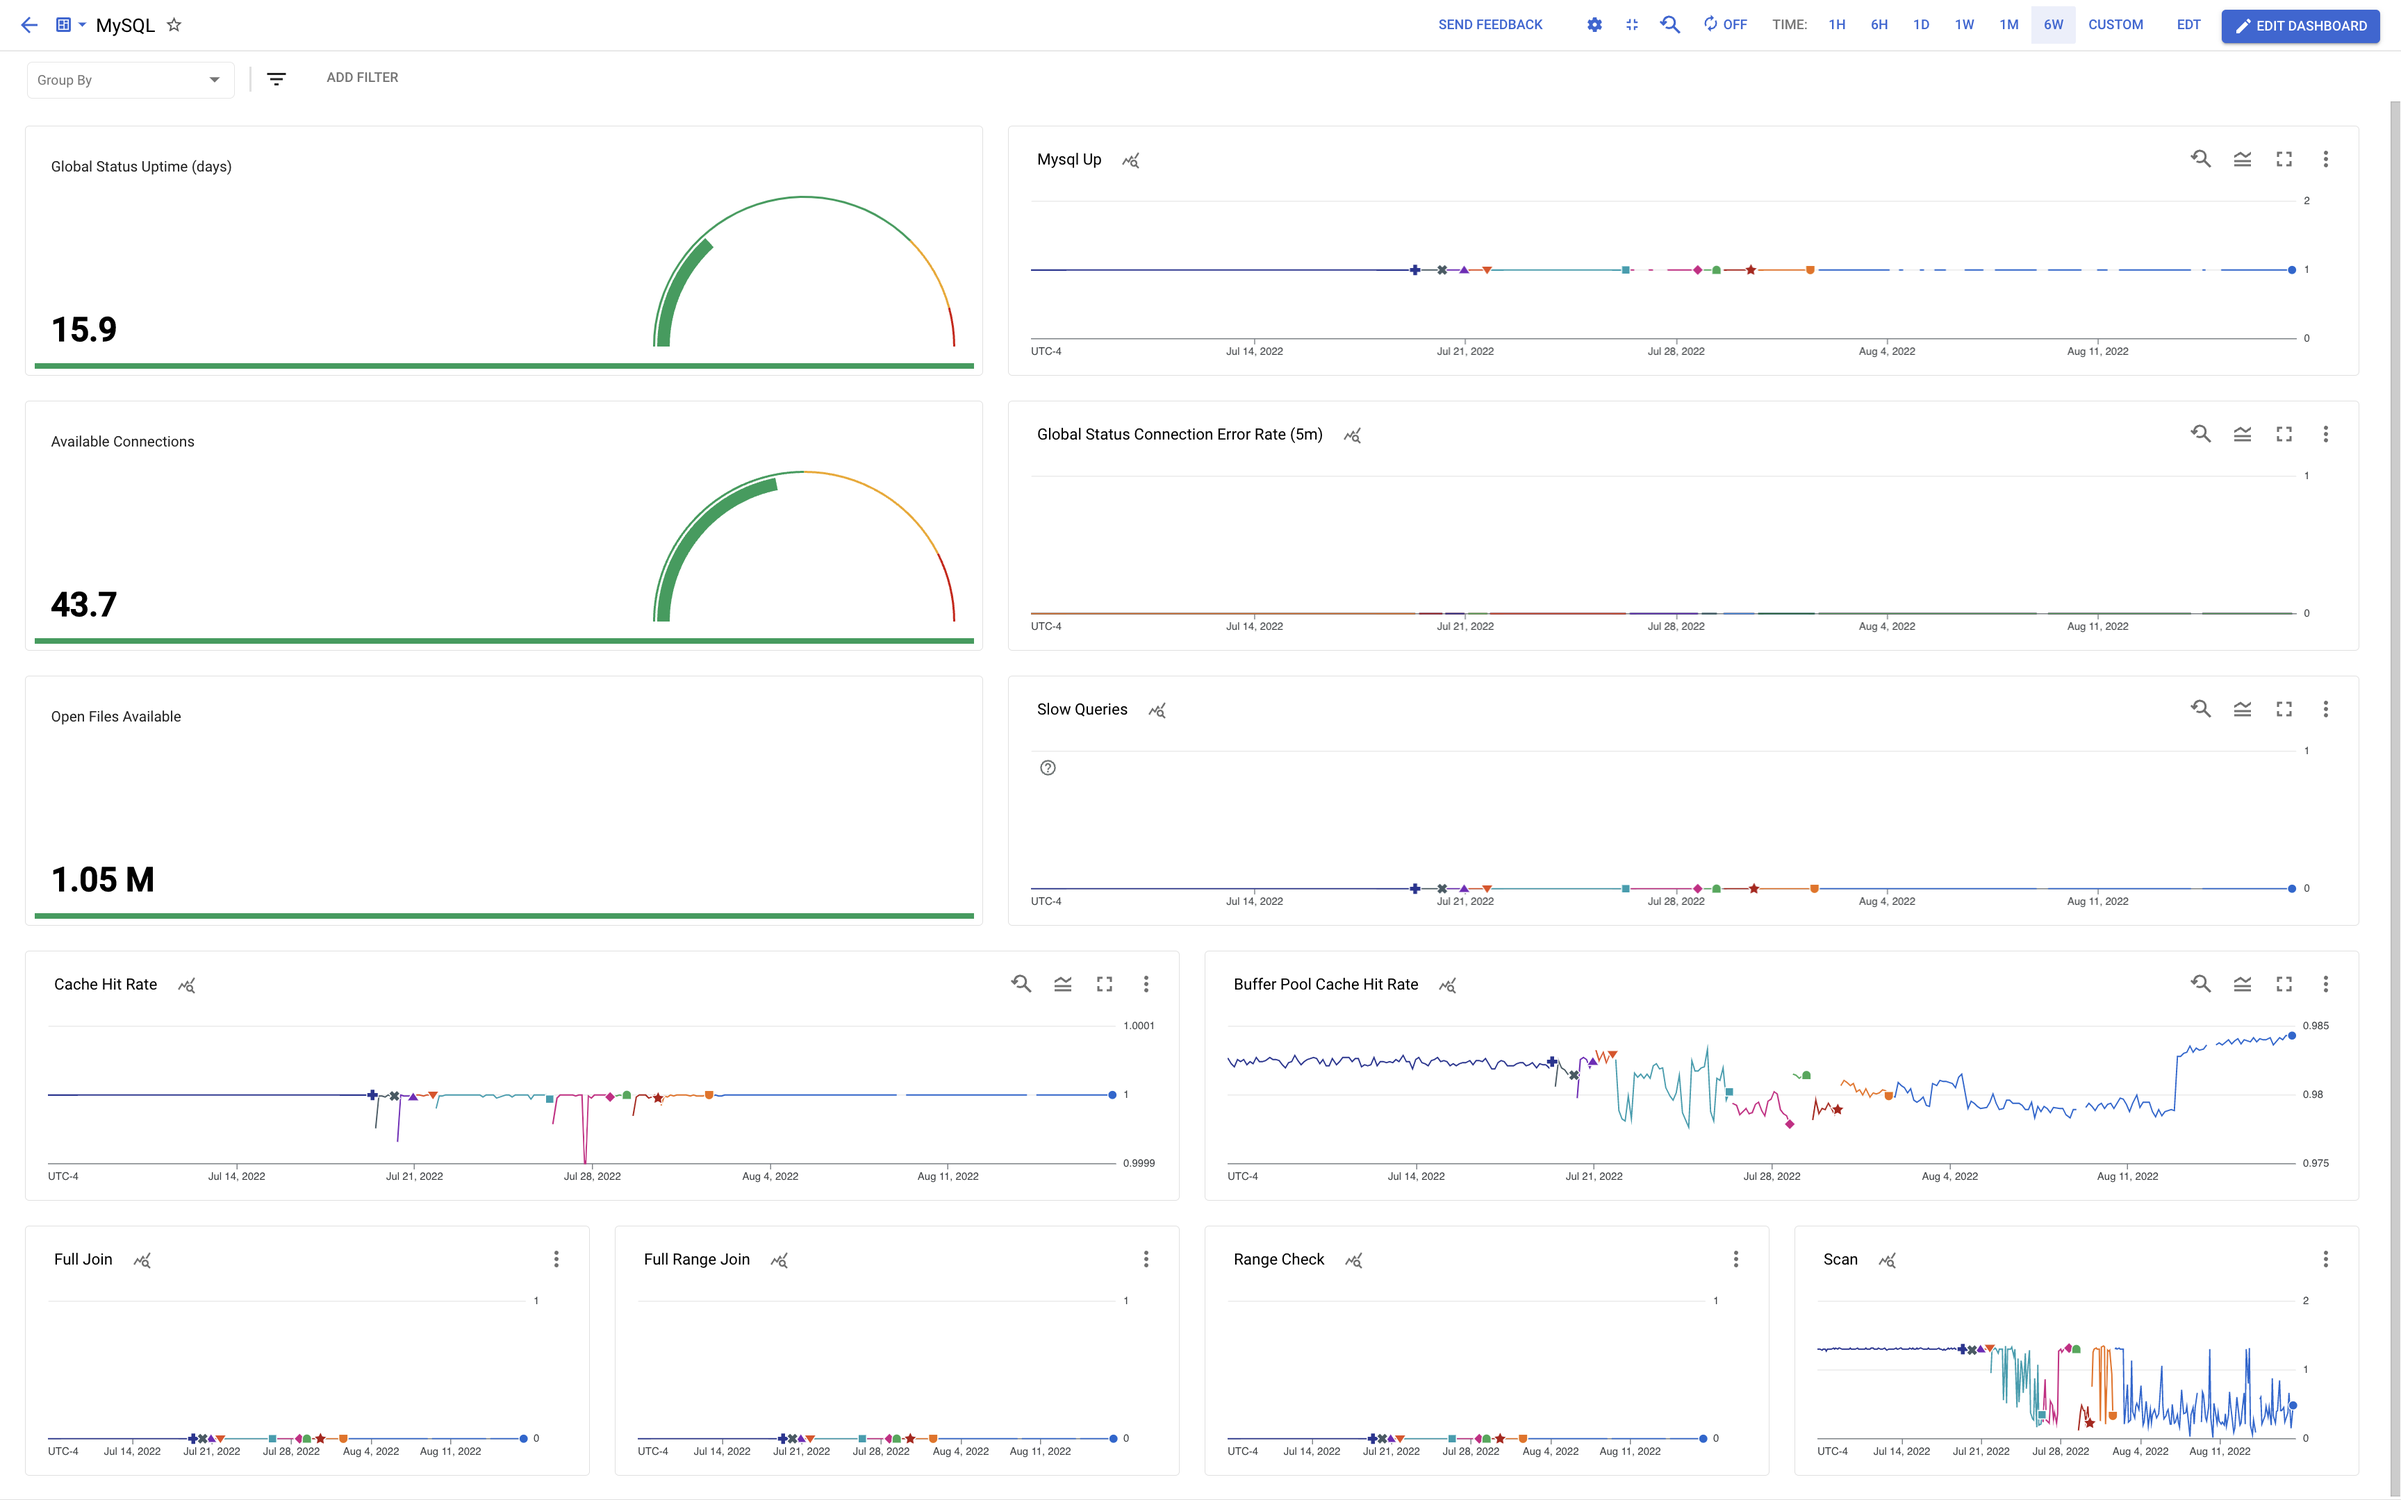
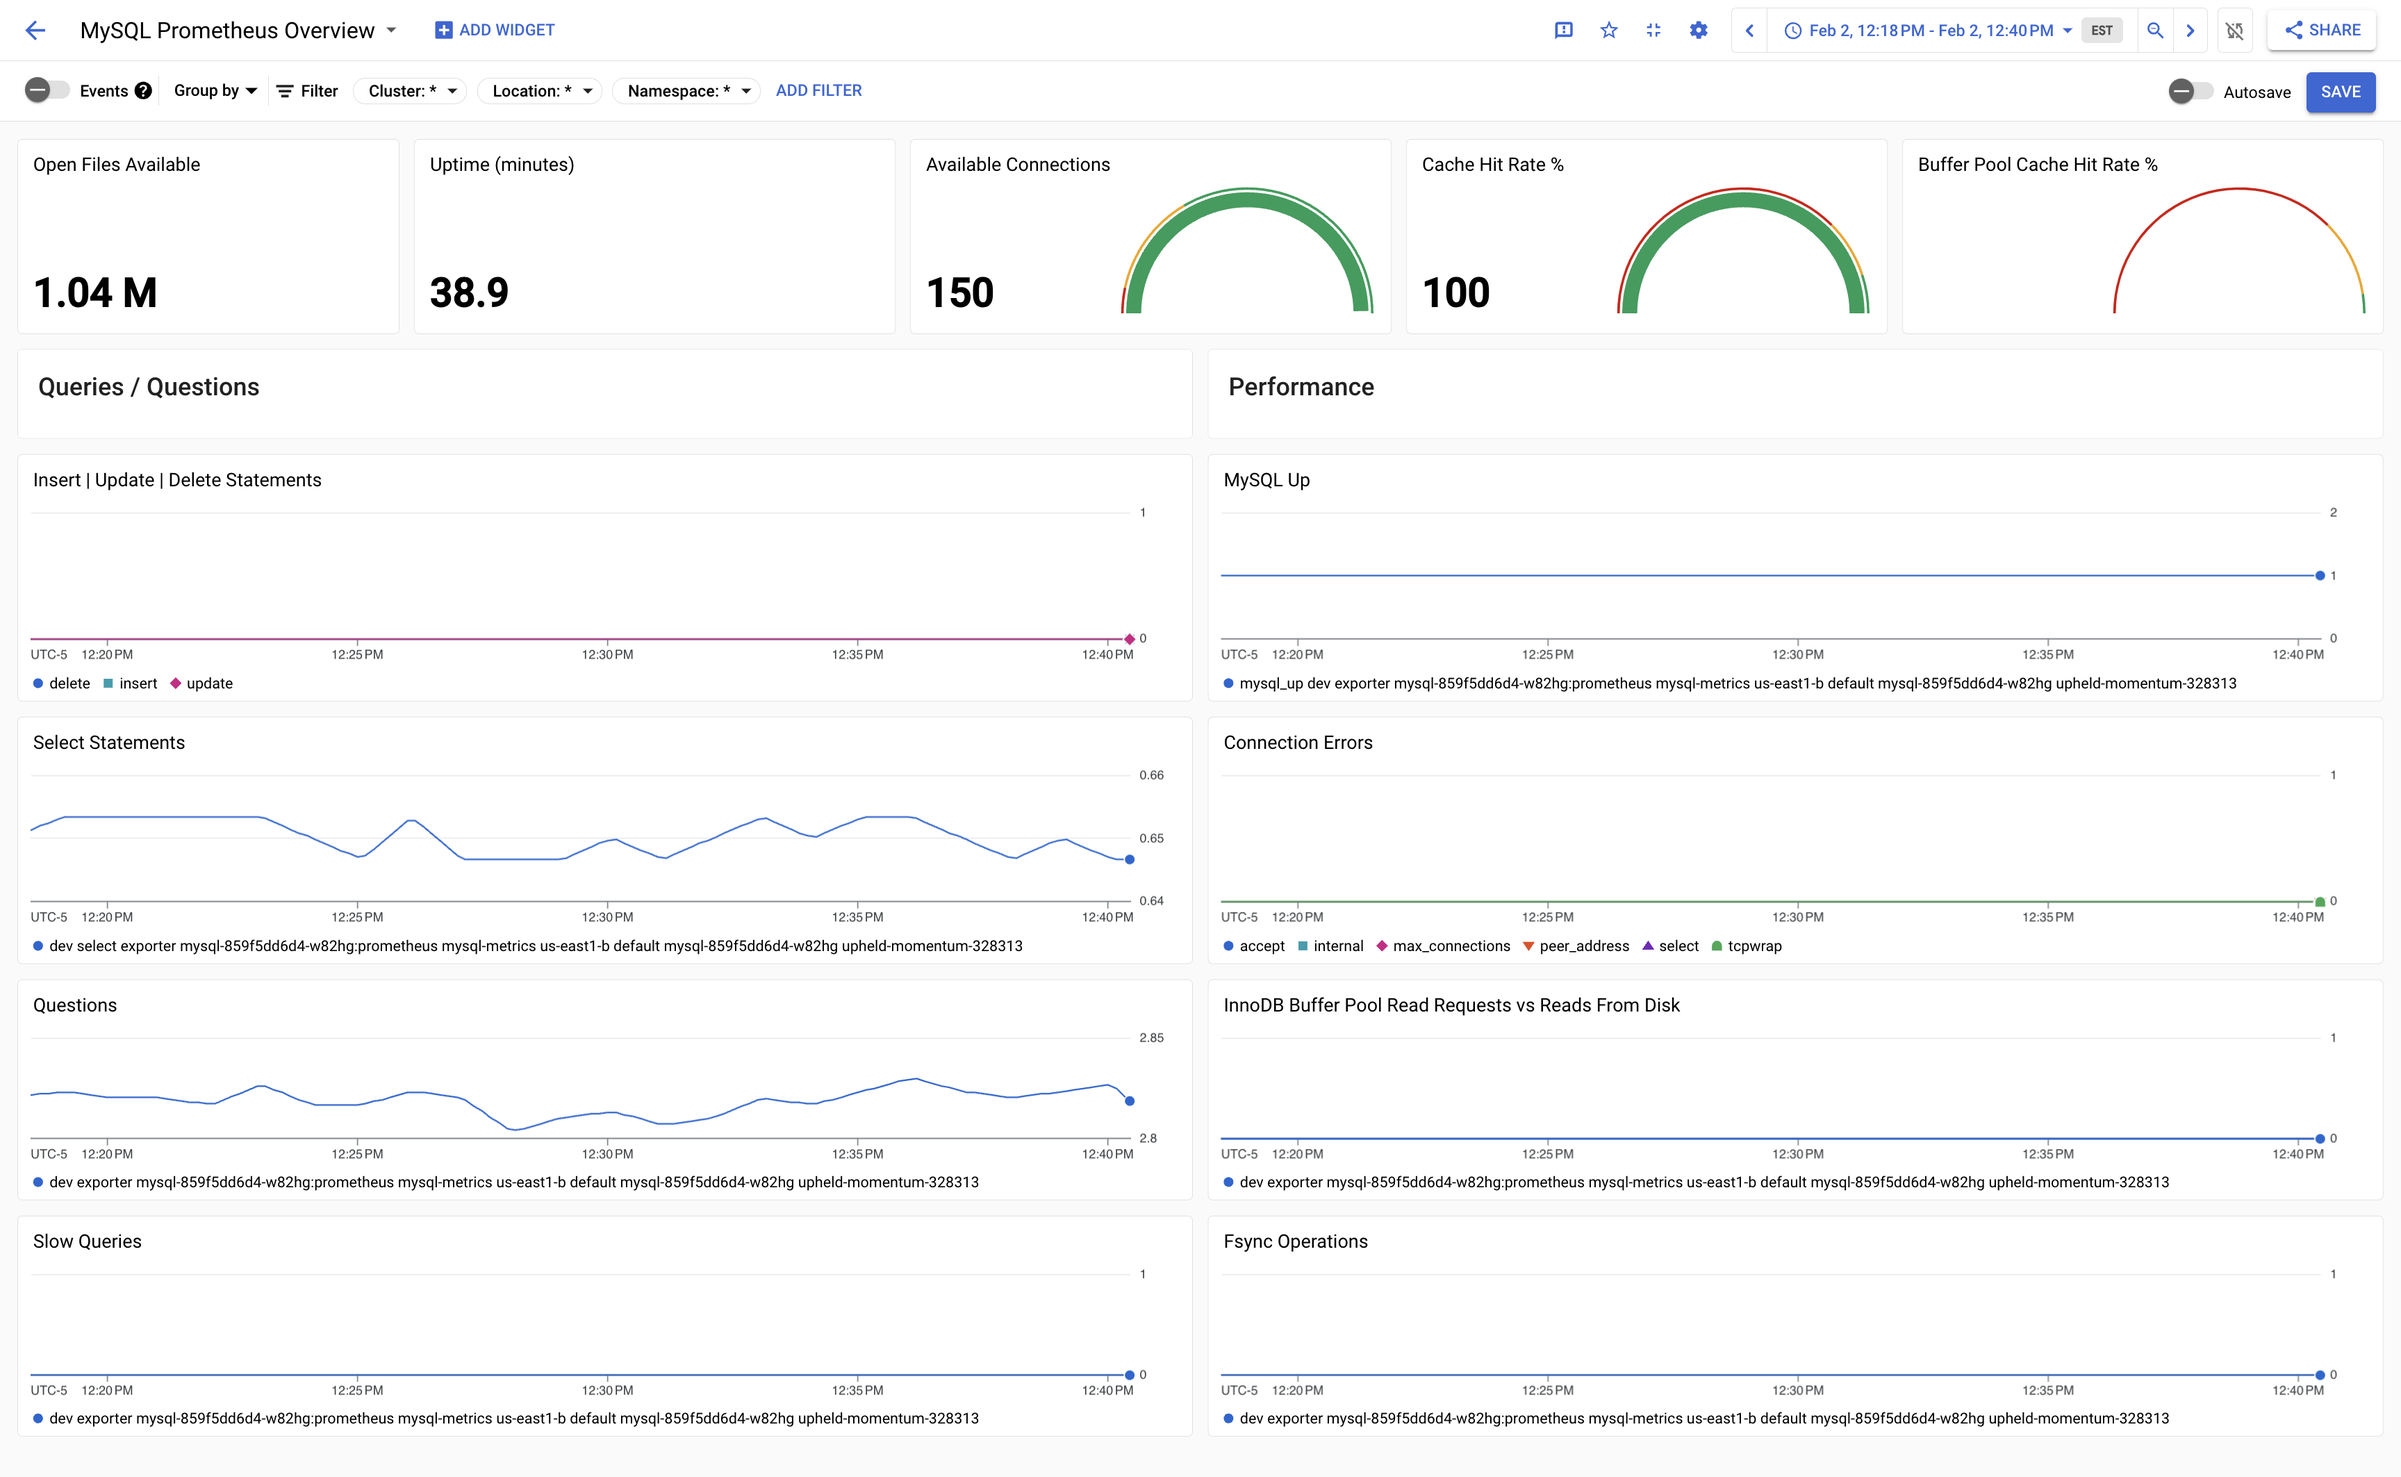
MySQL Prometheus dashboard KPI and layout updates (#669)
* updated the layout and kpis for the mysql prometheus dashboard

* updated the mysql prometheus dashboard screenshot

* updated the readme to reflect new metrics and chart titles

* updated the description for mysql prometheus dashboard in metadata

* updated layout and kpis for mysql prometheus dashboard

* fixed title in dashboard screenshot for mysql prometheus

* updated the default metrics listed in metadata for mysql prometheus

* fixed typos in metadata description

* updated mysql metadata to reflect that uptime is measured in minutes

* removed duplicate metric

* included filters missing for several metrics, updated cache hit charts to clearly represent a percentage

* updated screenshot to reflect changes to cache hit percentage scorecards

diff --git a/dashboards/mysql/README.md b/dashboards/mysql/README.md
@@ -13,4 +13,4 @@
 |MySQL Prometheus|
 |:------------------|
 |Filename: [mysql-prometheus.json](mysql-prometheus.json)|
-|This dashboard is based on prometheus metrics being exposed by an [exporter](https://github.com/prometheus/mysqld_exporter). This dashboard has charts displaying: `Global Status Uptime (days)`, `Available Connections`, `Open Files Available`, `Cache Hit Rate`, `MySQL Up`, `Global Status Connection Error Rate (5m)`, `Slow Queries`, `Buffer Pool Cache Hit Ratio`, `Full Join`, `Full Range Join`, `Range Check`, and `Scan`|
+|This dashboard is based on prometheus metrics being exposed by an [exporter](https://github.com/prometheus/mysqld_exporter). This dashboard has charts displaying: `Uptime (minutes)`, `Available Connections`, `Open Files Available`, `Cache Hit Rate`, `MySQL Up`, `Connection Errors`, `Slow Queries`, `Buffer Pool Cache Hit Rate`, `Questions`, `Fsync Operations`, `InnoDB Buffer Pool Read Requests vs Reads From Disk`, `Select Statements`, and `Insert/Update/Delete Statements` |
